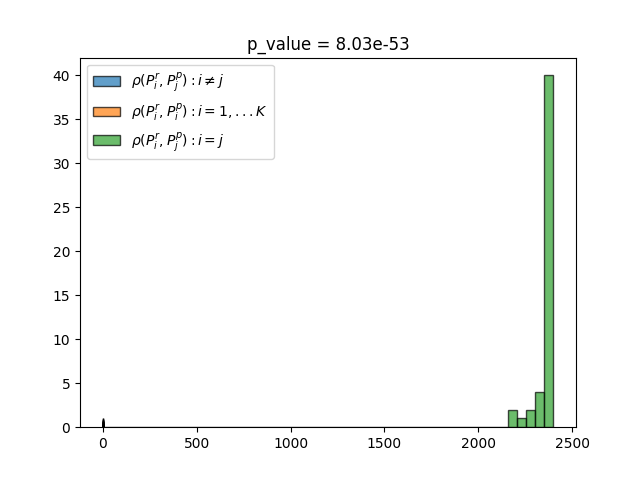
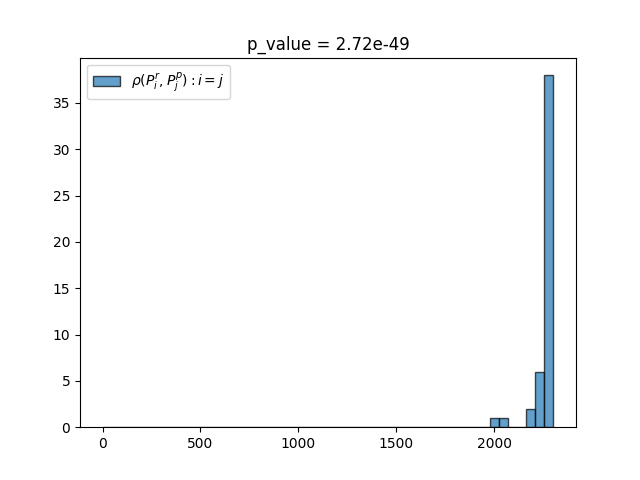
Update crop

diff --git a/utils/utils.py b/utils/utils.py
@@ -255,7 +255,7 @@ def get_profil_crop(img, size_x, size_y):
     return profil, x_start
 
 
-def get_profil(path, filter):
+def get_profil(path, filter, crop_size=1000):
     """
     Reads an image file, applies filtering, and extracts a profile.
 
@@ -275,6 +275,11 @@ def get_profil(path, filter):
             if img is None or img.size == 0:
                 raise ValueError(f"Empty or corrupted image: {path}")
 
+            if crop_size:
+                img, x_start, y_start = random_square_crop(img, crop_size)
+            else:
+                x_start, y_start = 0, 0
+
             # Apply filtering
             if filter == '2-means':
                 filtered_img = k_mean(img, k=2)
@@ -288,7 +293,7 @@ def get_profil(path, filter):
             # Compute mean profile along axis 0
             profil = np.mean(filtered_img, axis=0)[10:-10]
 
-        return profil
+        return profil, x_start, y_start
 
     except rasterio.errors.RasterioIOError:
         raise ValueError(f"Error reading raster file: {path}")
@@ -527,6 +532,42 @@ def save_histo_rank(list_missaligned, list_aligned, pvalue):
     plt.title(f'p_value = {pvalue:.2e}')
     plt.legend(loc='best')
     plt.savefig('./outputs/histo_rank.png')
+
+
+def random_square_crop(image, crop_size, seed=None):
+    """
+    Crop a random square region from an image.
+
+    Parameters
+    ----------
+    image : np.ndarray
+        Input image, shape (H, W) or (H, W, C).
+    crop_size : int
+        Side length of the square crop.
+    seed : int, optional
+        Random seed for reproducibility.
+
+    Returns
+    -------
+    crop : np.ndarray
+        Cropped square image of shape (crop_size, crop_size) or (crop_size, crop_size, C).
+    x_start : int
+        Starting x index of the crop.
+    y_start : int
+        Starting y index of the crop.
+    """
+    H, W = image.shape[:2]
+
+    if crop_size > H or crop_size > W:
+        raise ValueError(f"crop_size ({crop_size}) must be smaller than both image dimensions ({H}x{W})")
+
+    rng = np.random.default_rng(seed)
+    x_start = rng.integers(0, W - crop_size + 1)
+    y_start = rng.integers(0, H - crop_size + 1)
+
+    crop = image[y_start:y_start + crop_size, x_start:x_start + crop_size]
+
+    return crop, x_start, y_start
 
 
 def get_sensor_id(path):

diff --git a/main.py b/main.py
@@ -11,15 +11,11 @@ from utils.utils import *
 ROOT = os.path.dirname(os.path.realpath(__file__))
 
 
-def main(reference, test, crop_size, filter):
+def main(reference, test, crop_size, filter, crop=False):
 
     # Compute profiles
-    s1 = get_profil(reference, filter)
-    s2 = get_profil(test, filter)
-
-    # Crop
-    s1 = s1
-    s2 = s2[1000:2000]
+    s1, _, _ = get_profil(reference, filter)
+    s2, x_start, y_start = get_profil(test, filter, crop)
 
     # Compare signals
     if len(s1) == len(s2):
@@ -57,6 +53,7 @@ if __name__ == "__main__":
     parser.add_argument("-t", "--test", type=str, required=True)
     parser.add_argument("-s", "--crop_size", type=int, default=20, required=False)
     parser.add_argument("-f", "--filter", type=str, default='rank', required=False)
+    parser.add_argument("-c", "--crop", type=bool, default=False, required=False)
 
     args = parser.parse_args()
     main(args.reference, args.test, args.crop_size, args.filter)
